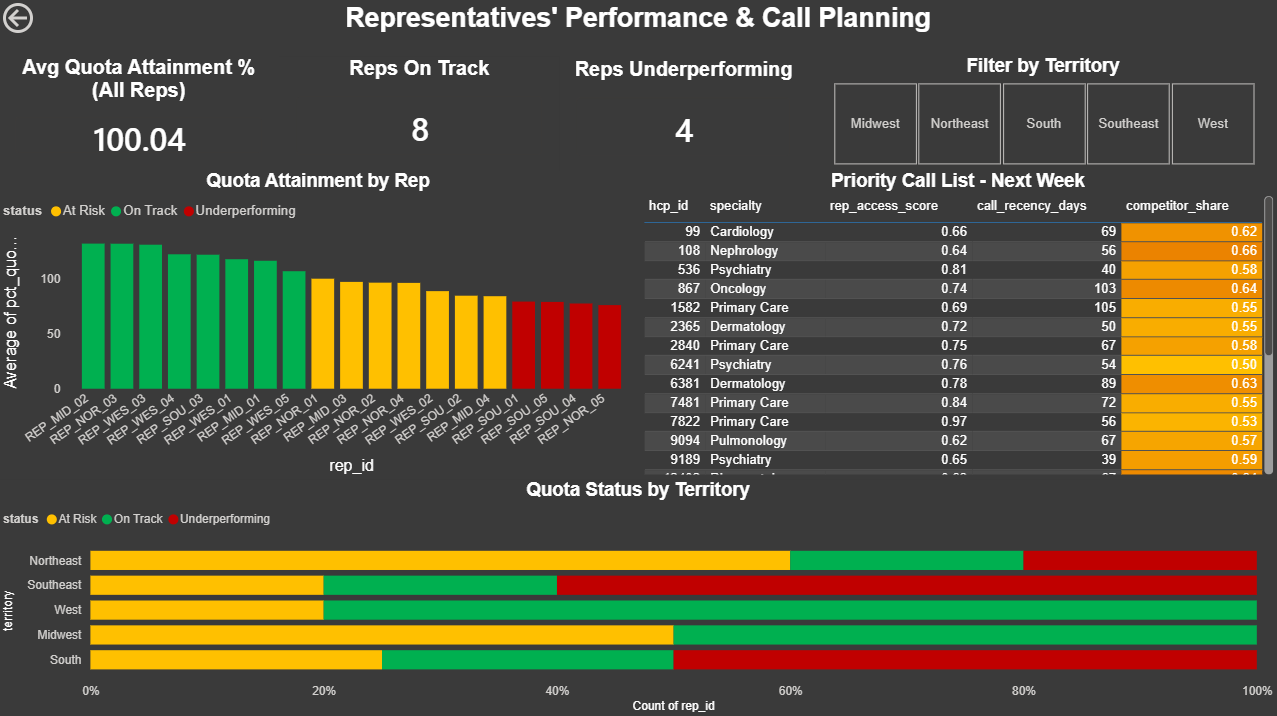
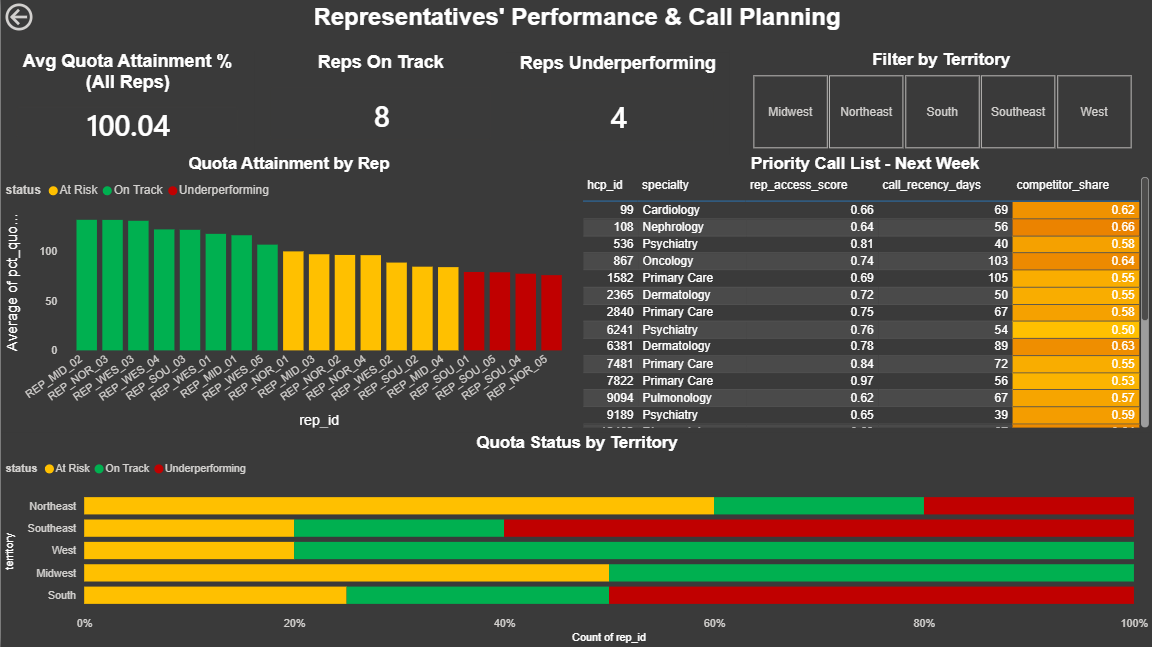
final

diff --git a/README.md b/README.md
@@ -31,7 +31,7 @@ A pharmaceutical company runs a multi-channel marketing campaign targeting ~25,0
 
 **Source:** Synthetic HCP Omnichannel Marketing Dataset (Kaggle - danielmeiser)
 **Size:** 150,000 rows × 42 columns
-**Structure:** Panel data - one row per HCP per week (24,935 unique doctors × 26 weeks)
+**Structure:** Panel data - 150,000 HCP-week observations covering 24,935 unique doctors over a 26-week window (unbalanced panel, ~6 weeks per doctor on average)
 
 **Key column groups:**
 
@@ -54,7 +54,6 @@ Pharma-Commercial-Analytics/
 │   ├── 02_Rep_Performance.png
 │   └── 03_Marketing_Mix_And_Territory_ROI.png
 │
-├── 01_create_table.sql               # MySQL table schema
 ├── 02_create_views.sql               # 5 analytical SQL views
 ├── addSQL.py                         # Loads CSV into MySQL
 ├── Pharma_Commercial_Analytics.pbix  # Power BI dashboard file
@@ -71,13 +70,15 @@ Five views built on top of the `hcp_marketing` table:
 Tiers all 24,935 doctors into A/B/C using a composite score:
 
 ```
-Composite Score = (baseline_rx_monthly × 0.3)
-                + (rep_access_score   × 100 × 0.3)
-                + (competitor_share   × 100 × 0.2)
-                + (panel_size         × 0.01 × 0.2)
+Composite Score = (norm(baseline_rx_monthly) × 0.3)
+                + (norm(rep_access_score)    × 0.3)
+                + (norm(competitor_share)    × 0.2)
+                + (norm(panel_size)          × 0.2)
+
+where norm(x) = (x − MIN(x)) / (MAX(x) − MIN(x))
 ```
 
-Uses `NTILE(3)` window function to split into equal thirds. Tier A = highest composite score = highest priority target.
+Each input is min-max normalized to a 0–1 scale before weighting, so the 0.3/0.3/0.2/0.2 weights reflect each variable's true contribution to the score rather than being distorted by differences in raw scale (e.g. `panel_size` ranging into the thousands vs. `rep_access_score` bounded at 0–1). Uses `NTILE(3)` window function to split into equal thirds. Tier A = highest composite score = highest priority target.
 
 ### 2. `vw_quota_attainment` - Rep Performance
 Computes `AVG(rx_lift_weekly) / AVG(weekly_quota_rx_lift) × 100` per rep per territory. Labels reps as **On Track** (≥100%), **At Risk** (80–99%), or **Underperforming** (<80%) using `CASE WHEN`.
@@ -106,7 +107,7 @@ Ranks all 5 territories by total Rx lift generated using the `RANK()` window fun
 
 - **Clustered bar chart** - competitor share and avg Rx lift by HCP tier (A/B/C), showing Tier A carries the highest competitor penetration - the primary targeting rationale
 - **Filled map** - average competitor share by US state using a blue gradient; darker = stronger competitor presence = higher market opportunity
-- **KPI cards** - Total HCPs (25K), Avg Competitor Share (0.29), Avg Composite Score (30.55)
+- **KPI cards** - Total HCPs (25K), Avg Competitor Share (0.29), Avg Composite Score (0.35)
 - **Slicers** - Filter by territory and specialty; cross-filter all visuals simultaneously
 
 ---
@@ -142,6 +143,7 @@ Ranks all 5 territories by total Rx lift generated using the `RANK()` window fun
 - **4 of 19 reps are Underperforming** (below 80% quota attainment), concentrated in the Northeast and Southeast territories
 - **Midwest/Ohio area shows highest competitor penetration** on the geographic map - the strongest opportunity for market share recovery
 - **Tier A doctors carry higher competitor share** (0.33 avg) than Tier C (0.23 avg), confirming that the targeting model correctly prioritises competitor-dominated HCPs - not just high prescribers
+- **Tiering separates HCPs cleanly on competitor share (the intended targeting signal) but does not differentiate on realized Rx lift** - consistent with the model prioritising opportunity over historical response
 
 ---
 
@@ -155,7 +157,6 @@ python addSQL.py
 
 **2. Create analytical views:**
 ```sql
-source 01_create_table.sql
 source 02_create_views.sql
 ```
 
